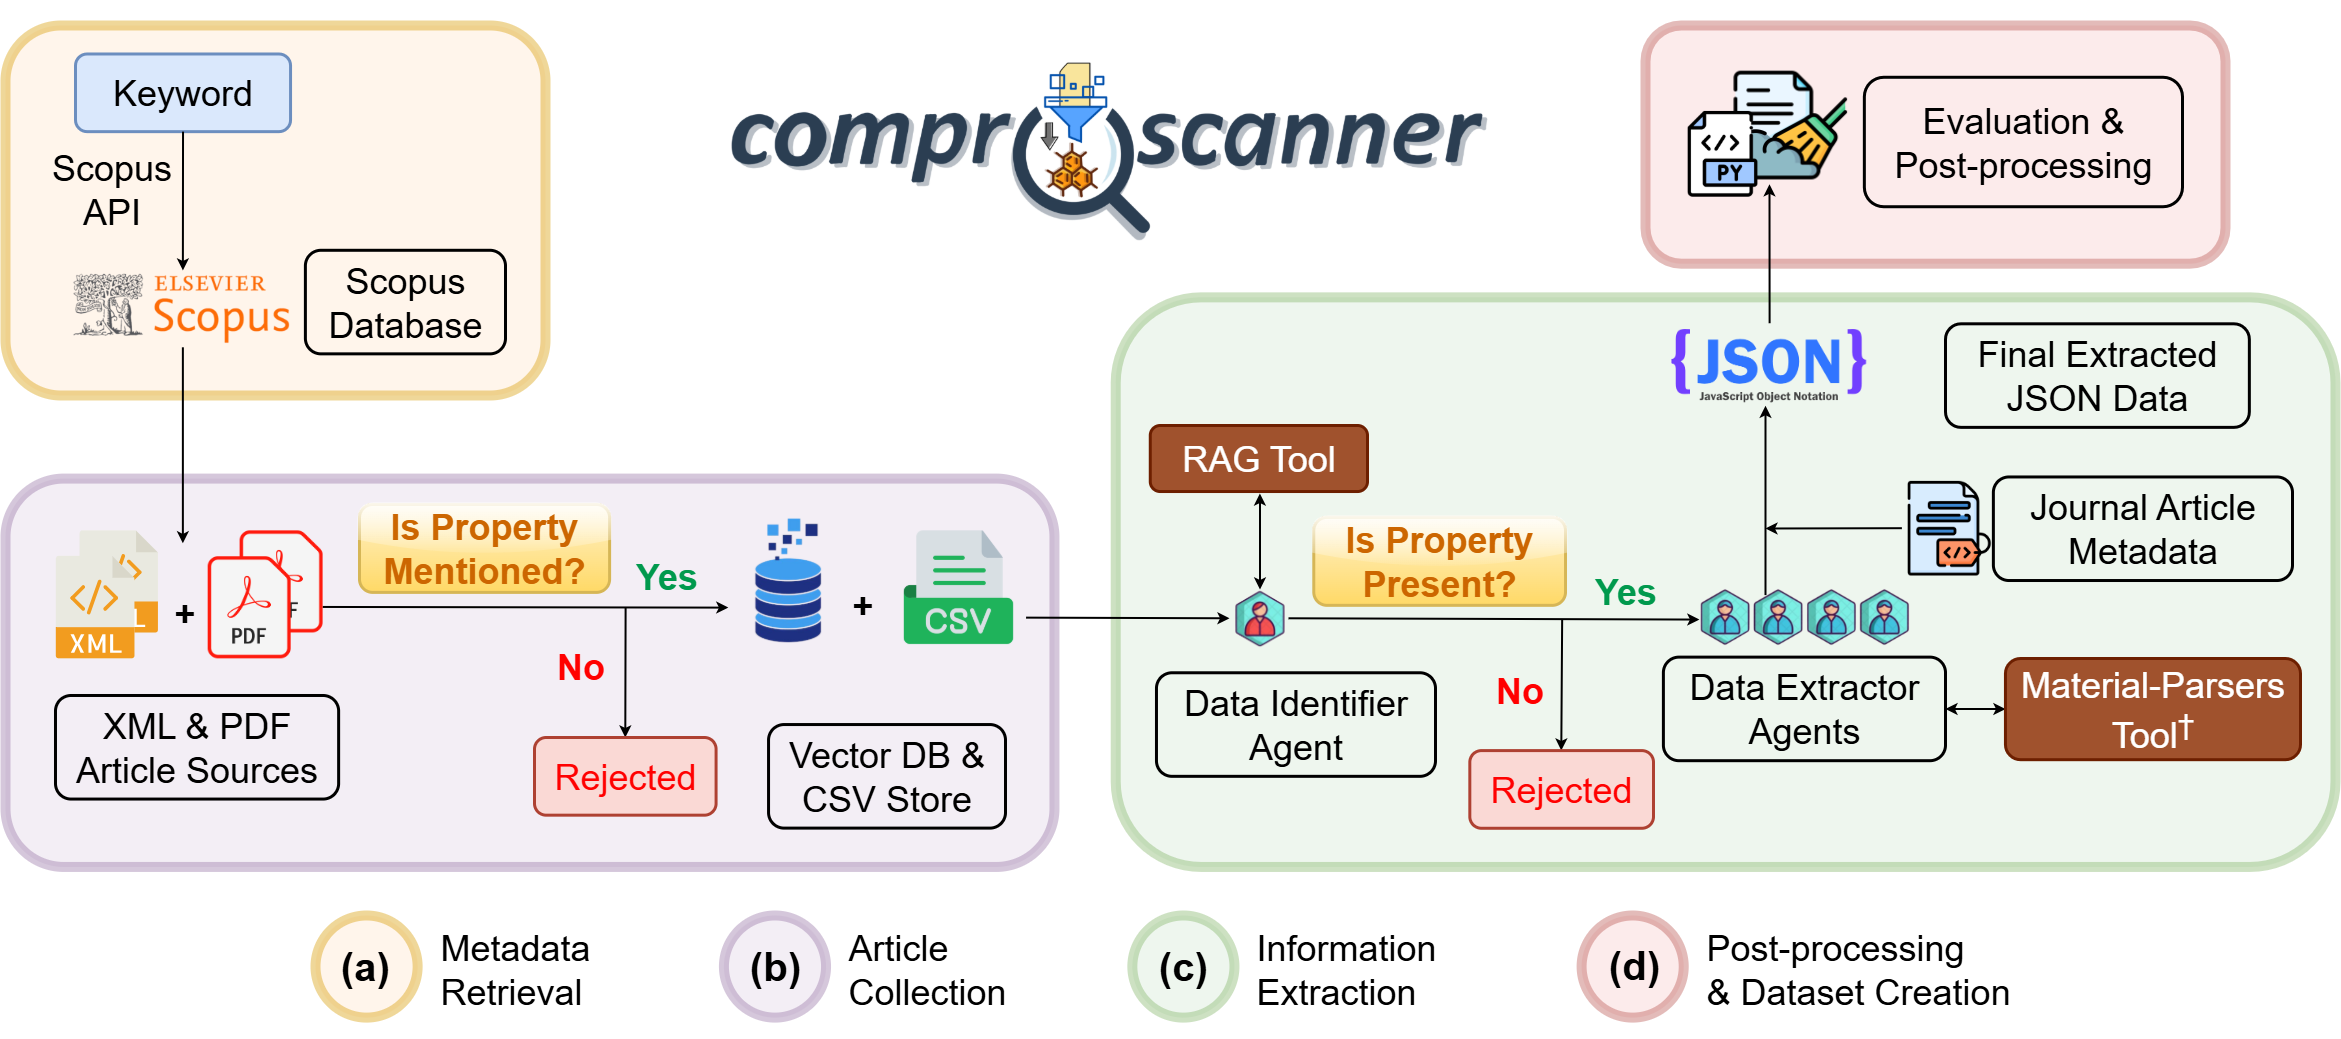
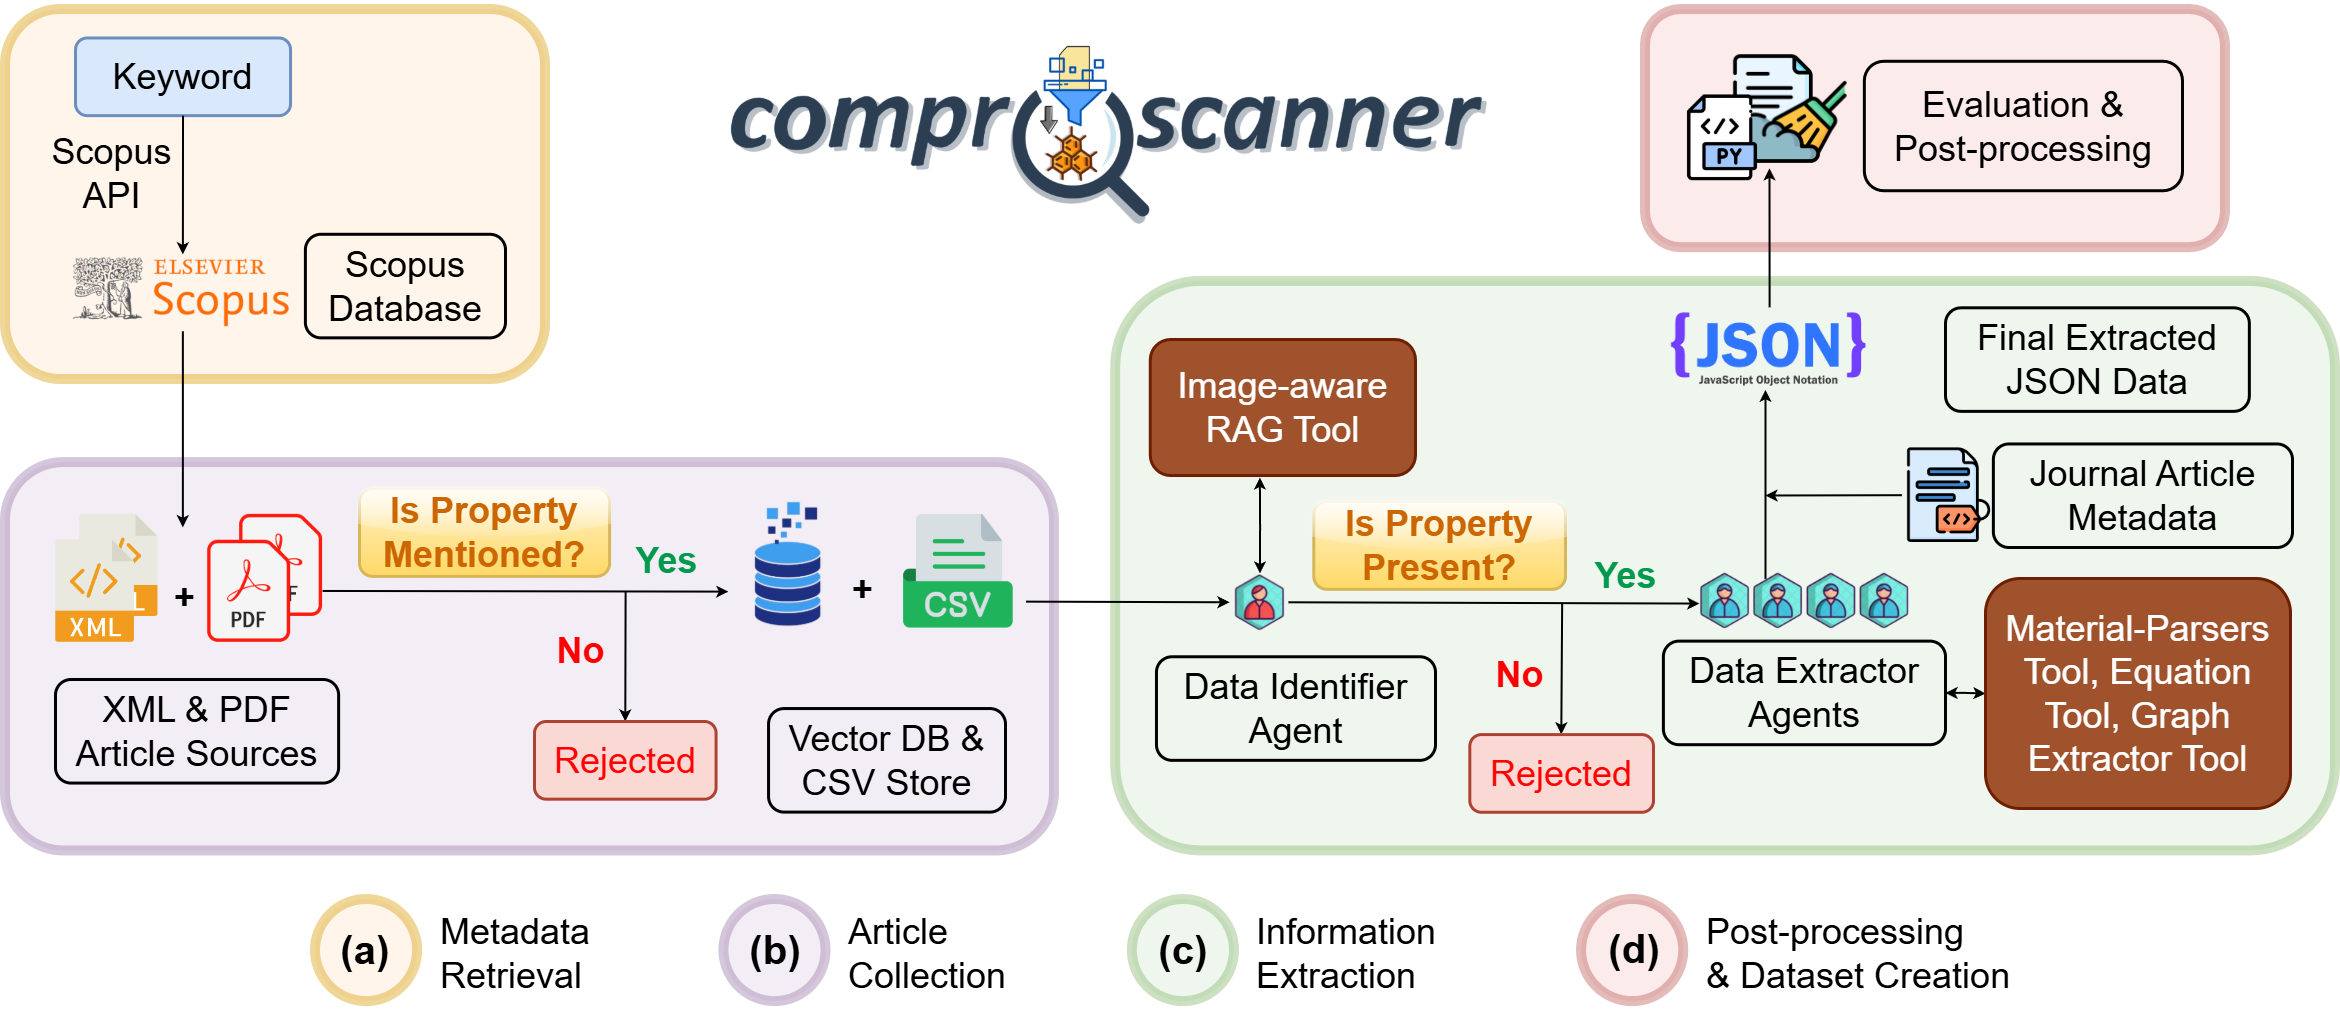
overall workflow and data-extraction workflow images are modified

diff --git a/tests/test_public_api.py b/tests/test_public_api.py
@@ -160,7 +160,8 @@ def test_clean_data_public_api_forwards_to_cleaner(tmp_path):
 
     assert result == {"10.x/test": {}}
     cleaner.clean_data_with_relevant_compositions.assert_called_once_with(
-        strategy="full"
+        strategy="full",
+        apply_advanced_cleaning=True,
     )
 
 

diff --git a/docs/blogs/posts/graphtool-vlm-benchmark.md b/docs/blogs/posts/graphtool-vlm-benchmark.md
@@ -29,26 +29,32 @@ Two complementary mechanisms have been introduced to address this:
 1. **`GraphExtractorTool`** — a CrewAI `BaseTool` that, given a DOI, reads all saved figures for that article and passes them to a VLM with a structured extraction prompt, returning composition–property value pairs in the standard ComProScanner JSON schema.
 2. **Image-aware fallback in `DataExtractionFlow`** — the Materials Data Identifier now runs text RAG first; if RAG returns `no`, the flow checks saved DOI figures via VLM and upgrades the decision to `yes` when relevant graphical evidence is found. This prevents articles with graph-only data from being silently discarded before extraction even begins.
 
-A companion **`FigureExtractor`** utility handles caption-keyword–based filtering (if specified, otherwise saves all) and JPEG conversion (including transparent-PNG compositing onto white, animated-GIF frame pinning) and is shared across all publisher processors. Current ComProScanner architecture is represented in [Fig. 1](#overall-workflow).
+A companion **`FigureExtractor`** utility handles caption-keyword–based filtering (if specified, otherwise saves all) and JPEG conversion (including transparent-PNG compositing onto white, animated-GIF frame pinning) and is shared across all publisher processors. Current ComProScanner overall architecture is represented in [Fig. 1](#overall-workflow).
 <div align="center">
-<img src="https://i.ibb.co/Kcjfyq2m/overall-workflow-graphtool.png" alt="overall workflow graphtool" style="width:100%; max-width:700px; id="overall-workflow" alt="ComProScanner Overall Workflow">
+<img src="https://i.ibb.co/FG0XK9j/overall-workflow.png" alt="overall workflow graphtool" style="width:100%; max-width:700px; id="overall-workflow" alt="ComProScanner Overall Workflow">
 </div>
 <p style="font-size: 10px;">
 <b>Fig. 1</b>: Overall workflow diagram of ComProScanner framework incorporating the GraphExtractorTool and EquationTool. The flow is separated in four distinct operational phases, distinguished with four different colour regions: (a) metadata retrieval (yellow), (b) article collection (purple), (c) information extraction (green) and (d) evaluation, post-processing and dataset creation (brown).
 </p>
 
-
+The _Materials Data Identifier_ agent from information extraction phase now includes image-aware RAG, which is invoked when the initial text-based RAG step fails to find relevant data. `Composition-Property Data Extractor` is the agent responsible for invoking the `GraphExtractorTool` when the flow reaches the graph extraction step. As well as this agent has access to the `EquationTool` for generating mathematical doped equations by understanding the text regarding element replacement logic and XRD pattern from images. This new information extraction flowchart diagram is illustrated in [Fig. 2](#flow-diagram).
+<div align="center">
+<img src="https://i.ibb.co/tTYHqtxP/flow-diagram.png" alt="flow diagram" style="width:100%; max-width:500px; id="flow-diagram" alt="ComProScanner Flow Diagram">
+</div>
+<p style="font-size: 10px;">
+<b>Fig. 2</b>: Flow diagram of ComProScanner framework's information extraction process incorporating the image-aware RAGTool, GraphExtractorTool, EquationTool and Material-ParserTool. The CrewAI-based extraction system is comprised of five specialised agents. The process begins with a property identifier agent ((a) RAG Crew) that leverages Retrieval-Augmented Generation (RAG) technology to filter relevant articles. The remaining four agents are strategically organised into two parallel functional subgroups: one dedicated to composition data extraction ((b) composition crew set) and the other focused on synthesis information collection ((c) synthesis crew set). Each subgroup implements a sequential two-agent architecture—the first agent extracts raw data while the second performs formatting and standardisation.
+</p>
 ---
 
 ## 2. VLM Model Selection: LMArena Diagram Leaderboard
 
-Because the primary use case is reading scientific charts, not general image captioning, model selection was grounded in the **LMArena VLM Leaderboard (Diagram category)**<sup>7</sup>, which ranks models by human preference votes on diagram-understanding tasks and reports Arena ELO scores. Another critical factor was cost: the input token price for processing images with the VLM, as this directly impacts the scalability of the tool for building large datasets. Therefore, the selection process involved applying simultaneous filters on both ELO score and input cost to identify models that are not only effective at diagram comprehension but also economically viable for large-scale use. We selected the models that had an Arena ELO score of at least 1,250 and an input cost of less than $1.50 per 1 million tokens, ensuring a balance between performance and affordability, which ended up yielding four models for evaluation: Gemini-3-Flash-Preview<sup>8</sup>, Gemini-2.5-Pro<sup>9</sup>, GPT-5-Chat-Latest<sup>10</sup> and GPT-5.1<sup>11</sup>,  ([Fig. 2](#lmarena-leaderboard)).
+Because the primary use case is reading scientific charts, not general image captioning, model selection was grounded in the **LMArena VLM Leaderboard (Diagram category)**<sup>7</sup>, which ranks models by human preference votes on diagram-understanding tasks and reports Arena ELO scores. Another critical factor was cost: the input token price for processing images with the VLM, as this directly impacts the scalability of the tool for building large datasets. Therefore, the selection process involved applying simultaneous filters on both ELO score and input cost to identify models that are not only effective at diagram comprehension but also economically viable for large-scale use. We selected the models that had an Arena ELO score of at least 1,250 and an input cost of less than $1.50 per 1 million tokens, ensuring a balance between performance and affordability, which ended up yielding four models for evaluation: Gemini-3-Flash-Preview<sup>8</sup>, Gemini-2.5-Pro<sup>9</sup>, GPT-5-Chat-Latest<sup>10</sup> and GPT-5.1<sup>11</sup>  ([Fig. 3](#lmarena-leaderboard)).
 
 <div align="center">
 <img src="https://i.ibb.co/HT1yLBfx/lmarena-vlm-leaderboard.png" alt="lmarena diagram leaderboard" style="width:100%; max-width:700px; id="lmarena-leaderboard" alt="LMArena Leaderboard for VLMs">
 </div>
 <p style="font-size: 10px;">
-<b>Fig. 2</b>: LMArena Leaderboard for VLMs (Diagram category) as of April 2026. The region highlighted in pink indicates the models that were selected for evaluation based on the criteria of having an Arena ELO score of at least 1,250 and an input cost of less than $1.50 per 1 million tokens.
+<b>Fig. 3</b>: LMArena Leaderboard for VLMs (Diagram category) as of April 2026. The region highlighted in pink indicates the models that were selected for evaluation based on the criteria of having an Arena ELO score of at least 1,250 and an input cost of less than $1.50 per 1 million tokens.
 </p>
 
 ---
@@ -58,12 +64,12 @@ Because the primary use case is reading scientific charts, not general image cap
 The benchmark was conducted on 50 articles randomly selected from 73 DOIs in the existing piezoelectric ceramic article set that contained related figures. Along with GraphExtractorTool, an **EquationTool** has been added to the _Composition-Property Data Extractor agent_ (refer to the [ComProScanner paper](https://doi.org/10.1039/D5DD00521C) for details) for generating mathematical doped equations by understanding the element replacement logic and XRD patterns. `claude-sonnet-4-6` has been used for generating the equations based on the text and XRD patterns. For saving the figures, although the default behaviour of ComProScanner is to save all extracted figures, a set of keywords related to piezoelectric coefficient (d<sub>33</sub>) and XRD patterns were used to filter the figures (refer to the `vlm_test_example.py` script on [GitHub](https://github.com/slimeslab/ComProScanner/tree/main/examples/vlm_piezo_test/vlm_test_example.py)) to reduce the API costs. However, it should be noted that the filtering process is not perfect and some relevant figures may have been missed and users should be aware of this limitation. The evaluation was performed on the `composition_property_values` field only, using the standard ComProScanner semantic evaluator. Synthesis data (synthesis methods, precursors, characterisation techniques) was excluded from this evaluation as these fields were already evaluated and reported in the ComProScanner paper and are not affected by graph extraction.
 
 
-Of the 50 selected articles, 49 yielded evaluatable composition–property data after extraction and cleaning. The remaining one article, provided by Wiley, was not retrievable even as a PDF. The evaluation was performed at a strict semantic threshold of **1.0 (exact match)** to ensure that the reported metrics reflect precise extraction performance without partial-credit inflation. For d<sub>33</sub> values, error thresholds of <span>&#177;</span>0.5, <span>&#177;</span>1 and <span>&#177;</span>2 have been applied for different value ranges (refer to the `vlm_test_example.py` script on [GitHub](https://github.com/slimeslab/ComProScanner/tree/main/examples/vlm_piezo_test/vlm_test_example.py)). Two complementary classification metric sets are reported, along with weight-based composition accuracy as discussed in the ComProScanner paper. The model performance is summarised in confusion matrix illustrated below in [Fig. 3](#confusion-matrix).
+Of the 50 selected articles, 49 yielded evaluatable composition–property data after extraction and cleaning. The remaining one article, provided by Wiley, was not retrievable even as a PDF. The evaluation was performed at a strict semantic threshold of **1.0 (exact match)** to ensure that the reported metrics reflect precise extraction performance without partial-credit inflation. For d<sub>33</sub> values, error thresholds of <span>&#177;</span>0.5, <span>&#177;</span>1 and <span>&#177;</span>2 have been applied for different value ranges (refer to the `vlm_test_example.py` script on [GitHub](https://github.com/slimeslab/ComProScanner/tree/main/examples/vlm_piezo_test/vlm_test_example.py)). Two complementary classification metric sets are reported, along with weight-based composition accuracy as discussed in the ComProScanner paper. The model performance is summarised in confusion matrix illustrated below in [Fig. 4](#confusion-matrix).
 <div align="center">
 <img src="https://i.ibb.co/7dzx8s1b/confusion-matrix.png" alt="confusion matrix" style="width:100%; max-width:700px; id="confusion-matrix" alt="Confusion Matrix for VLM Benchmark">
 </div>
 <p style="font-size: 10px;">
-<b>Fig. 3</b>: Confusion matrix from semantic evaluation with 1.0 threshold for composition-property data, showcasing all 7 evaluation parameters, such as weight-based composition accuracy, classification metrics (precision, recall and F1-score) and normalised classification metrics (normalised precision, normalised recall and normalised F1-score), across 4 different VLMs used in this study.
+<b>Fig. 4</b>: Confusion matrix from semantic evaluation with 1.0 threshold for composition-property data, showcasing all 7 evaluation parameters, such as weight-based composition accuracy, classification metrics (precision, recall and F1-score) and normalised classification metrics (normalised precision, normalised recall and normalised F1-score), across 4 different VLMs used in this study.
 </p>
 
 **Gemini-3-Flash-Preview** is the clear frontrunner across all evaluation dimensions. It achieves a composition accuracy of 0.97, with absolute precision, recall, and F1 of 0.96, 0.95, and 0.96 respectively, and normalised precision, recall, and F1 of 0.97, 0.96, and 0.97 respectively. This outcome is entirely consistent with its standing on the LMArena Diagram leaderboard, where Gemini-3-Flash-Preview carries a higher Arena ELO score than Gemini-2.5-Pro whilst commanding a substantially lower input cost per million tokens, making it simultaneously the highest-performing and most economical candidate in this evaluation. **Gemini-2.5-Pro** performs respectably, with a composition accuracy of 0.86, absolute precision, recall, and F1 of 0.84, 0.76, and 0.80 respectively, and normalised precision, recall, and F1 of 0.88, 0.80, and 0.84 respectively. The notably lower recall relative to precision, a gap of approximately 0.08 in both absolute and normalised settings suggests the model is more conservative in proposing data points than the Flash variant, consistent with the Pro model's tendency towards cautious reasoning in ambiguous figure layouts. **GPT-5-Chat-Latest** and **GPT-5.1** perform broadly comparably to one another and can be considered together. Both yield a composition accuracy of 0.78. In terms of absolute classification metrics, both models achieve a precision of 0.71, with recall of 0.62 and 0.63 and F1 of 0.66 and 0.67 respectively. Normalised metrics follow a similar pattern: precision of 0.75 and 0.76, recall of 0.68 and 0.69, and F1 of 0.71 and 0.72 respectively. Both lie approximately 0.12–0.13 below Gemini-2.5-Pro on normalised F1, indicating difficulty with the full diversity of graphical representations across the corpus. Given this performance gap at similar cost, Gemini-3-Flash-Preview is adopted as the default VLM for the `GraphExtractorTool`, whilst the `vlm_model` parameter remains available for users to override with any LiteLLM-compatible model identifier (refer to the [ComProScanner documentation](../usage/data-extraction.md)).
